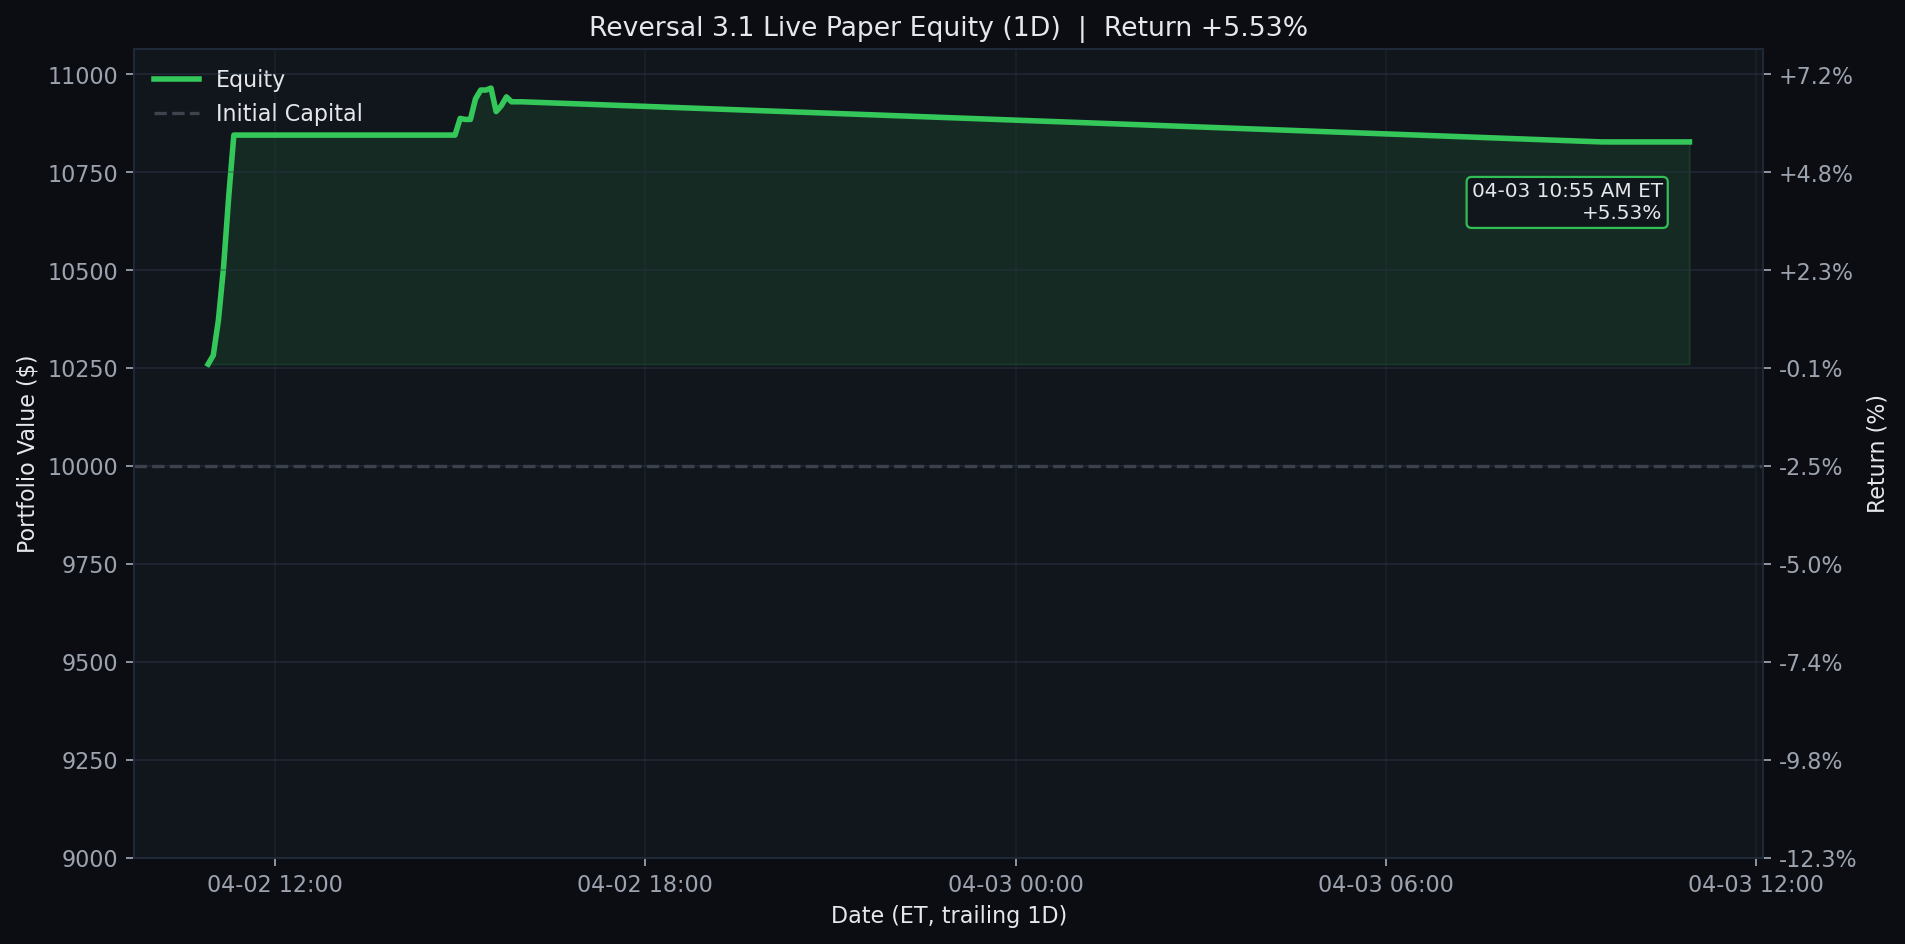
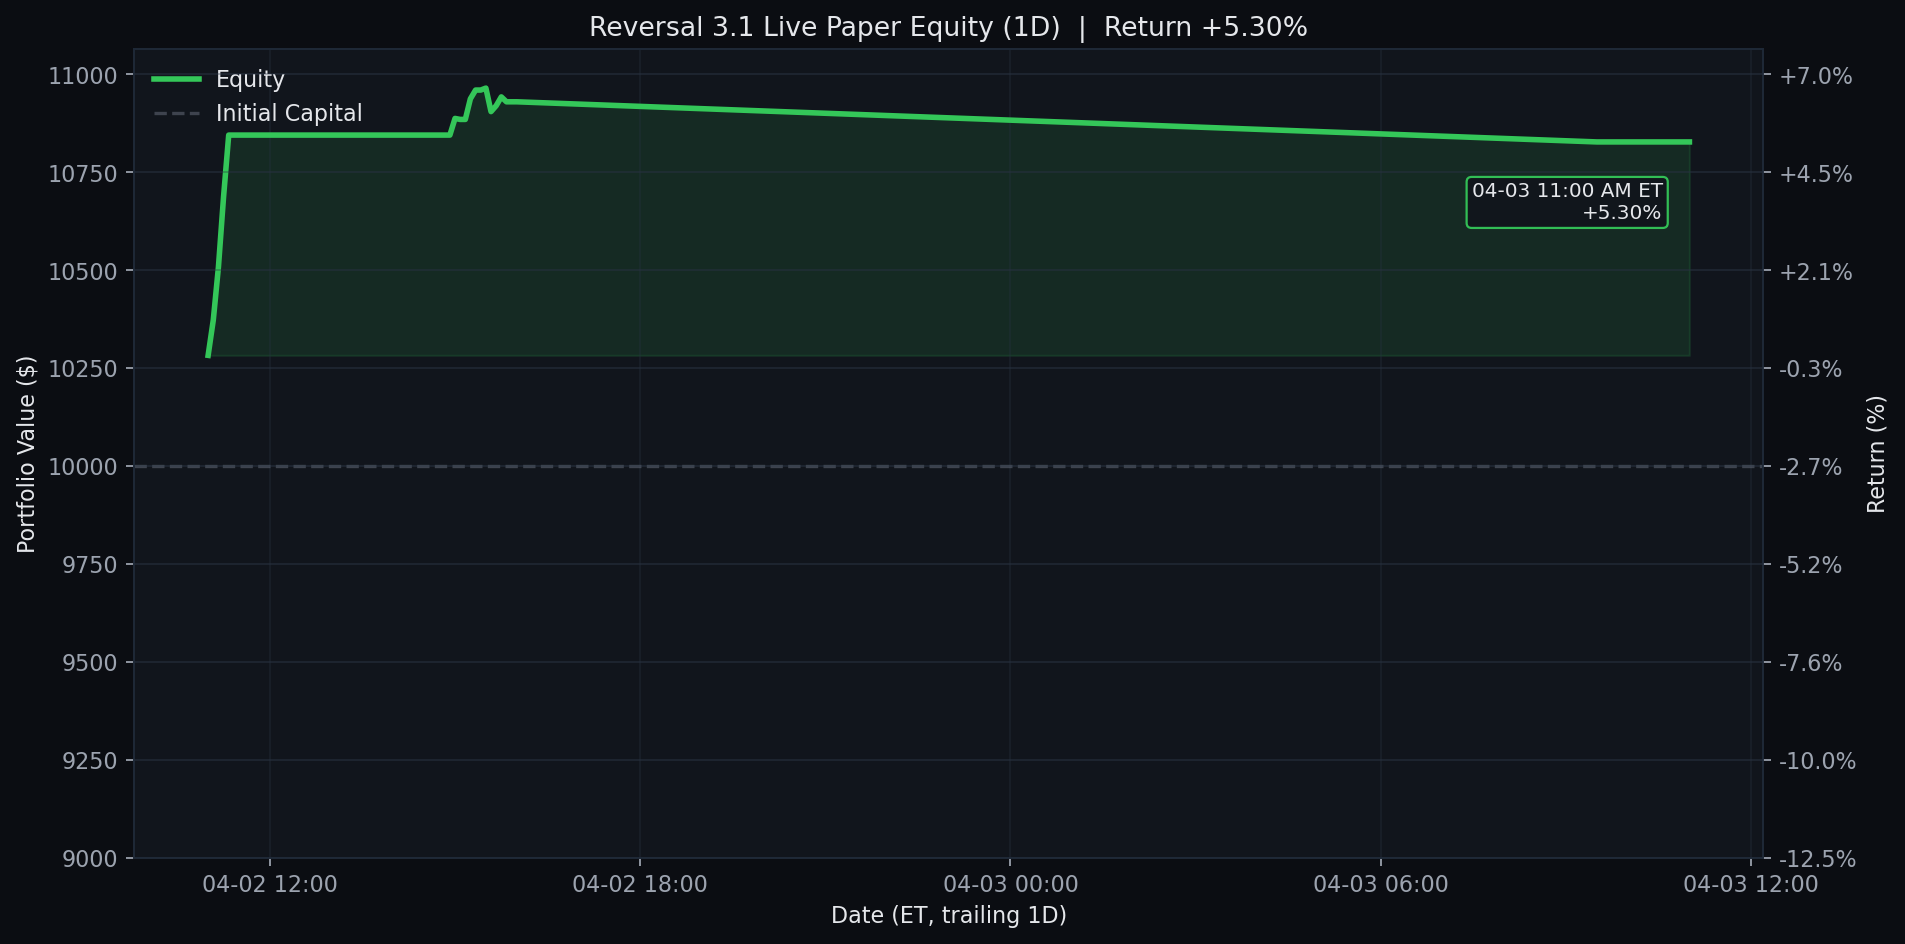
Update Reversal 3.1 live paper test 2026-04-03 11:00 ET

diff --git a/results/reversal_3_1_live/README.md b/results/reversal_3_1_live/README.md
@@ -1,6 +1,6 @@
 # Reversal 3.1 Live Paper Test
 
-Last updated (ET): `2026-04-03 10:55:05 EDT`
+Last updated (ET): `2026-04-03 11:00:01 EDT`
 Last processed slot: `manage_1100`
 
 ## Active Configuration
@@ -58,6 +58,7 @@ ticker  success_rate_%  matched_signals  current_drop_%  target_rebound_$  targe
 
 ```text
                     timestamp_et        slot   event_type                          detail
+2026-04-03T11:00:01.980341-04:00 manage_1100 slot_skipped {"reason": "already_processed"}
 2026-04-03T10:55:05.892037-04:00 manage_1100 slot_skipped {"reason": "already_processed"}
 2026-04-03T10:40:04.893559-04:00 manage_1030 slot_skipped {"reason": "already_processed"}
 2026-04-03T10:35:05.890516-04:00 manage_1030 slot_skipped {"reason": "already_processed"}
@@ -67,7 +68,6 @@ ticker  success_rate_%  matched_signals  current_drop_%  target_rebound_$  targe
 2026-04-03T10:05:05.895940-04:00 manage_1000 slot_skipped {"reason": "already_processed"}
 2026-04-03T10:00:05.449748-04:00 manage_1000 slot_skipped {"reason": "already_processed"}
 2026-04-03T09:55:02.175348-04:00 manage_1000 slot_skipped {"reason": "already_processed"}
-2026-04-03T09:40:05.888635-04:00 manage_0930 slot_skipped {"reason": "already_processed"}
 ```
 
 ## Equity Curves

diff --git a/README.md b/README.md
@@ -3,7 +3,7 @@
 <!-- reversal-3.1-live:start -->
 ## Reversal 3.1 Live Paper Test
 
-- Last updated (ET): `2026-04-03 10:55:05 EDT`
+- Last updated (ET): `2026-04-03 11:00:01 EDT`
 - Equity: `$10,827.50` | Realized: `$845.00` | Unrealized: `$-17.50` | Open positions: `1`
 - Today closed trades: `0`
 - Current slot: `manage_1100`
